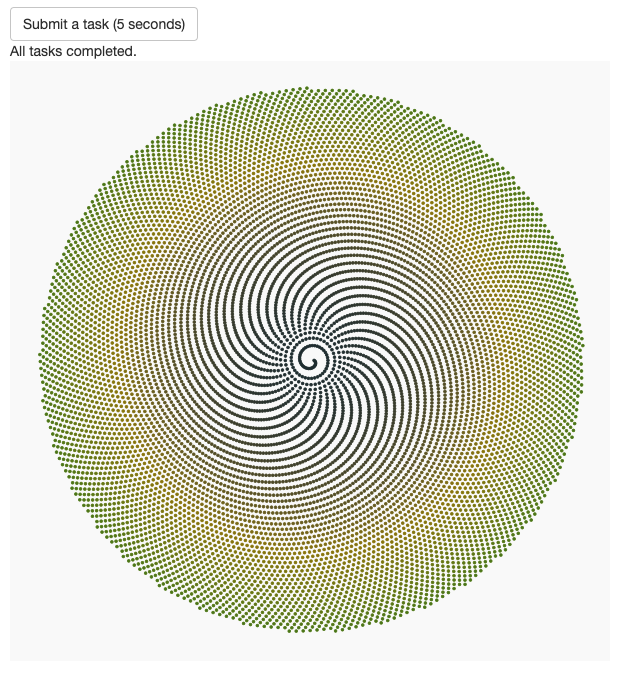
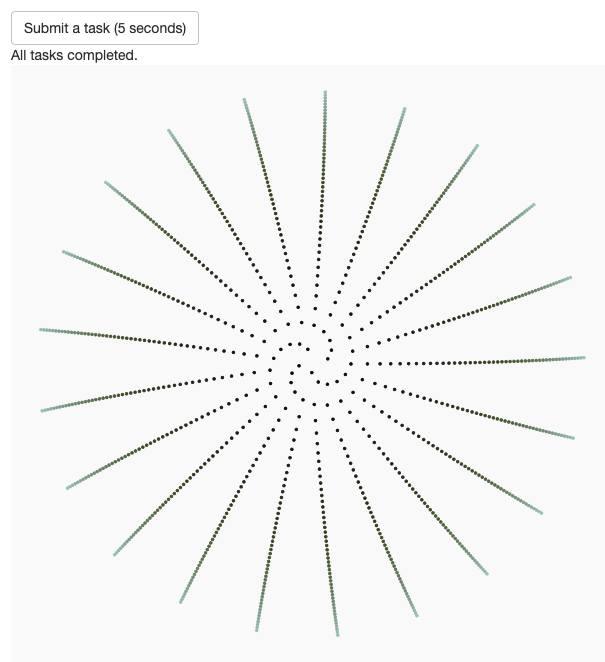
Deploying to gh-pages from @ wlandau/crew@874d0a2cb36dea191214ffd65391d77c998506e9 🚀

diff --git a/articles/shiny.html b/articles/shiny.html
@@ -146,11 +146,11 @@ in progress.</p>
 <p><img src="figures/completed1.png"></p>
 <p>You can submit many more tasks than there are workers currently
 running. In the following screenshot, the app is only running 4 workers,
-but the queue has 12 tasks left.</p>
+but the queue has 9 tasks left.</p>
 <p><img src="figures/progress.png"></p>
 <p>Thanks to the efficient scheduling of <a href="https://github.com/shikokuchuo/mirai" class="external-link"><code>mirai</code></a> in
 the backend, <code>crew</code> workers successfully complete all
-remaining 12 tasks. Because the app runs 4 workers, different plots may
+remaining 9 tasks. Because the app runs 4 workers, different plots may
 appear less than 5 seconds apart.</p>
 <p><img src="figures/completed2.png"></p>
 </div>
@@ -163,30 +163,23 @@ appear less than 5 seconds apart.</p>
 <span><span class="kw"><a href="https://rdrr.io/r/base/library.html" class="external-link">library</a></span><span class="op">(</span><span class="va"><a href="https://shiny.rstudio.com/" class="external-link">shiny</a></span><span class="op">)</span></span>
 <span><span class="kw"><a href="https://rdrr.io/r/base/library.html" class="external-link">library</a></span><span class="op">(</span><span class="va"><a href="https://ggplot2.tidyverse.org" class="external-link">ggplot2</a></span><span class="op">)</span></span>
 <span><span class="kw"><a href="https://rdrr.io/r/base/library.html" class="external-link">library</a></span><span class="op">(</span><span class="va"><a href="https://koenderks.github.io/aRtsy/" class="external-link">aRtsy</a></span><span class="op">)</span></span></code></pre></div>
-<p>Each task waits 5 seconds and then generates a random set of
-parameters of a <a href="https://en.wikipedia.org/wiki/Phyllotaxis" class="external-link">phyllotaxis</a>.</p>
+<p>Each task waits 5 seconds and then generates a random <a href="https://en.wikipedia.org/wiki/Phyllotaxis" class="external-link">phyllotaxis</a> <a href="https://ggplot2.tidyverse.org/" class="external-link"><code>ggplot</code></a> using the
+<a href="https://koenderks.github.io/aRtsy/reference/canvas_phyllotaxis.html" class="external-link"><code>canvas_phyllotaxis()</code></a>
+function from <a href="https://koenderks.github.io/aRtsy/" class="external-link"><code>aRtsy</code></a>.</p>
 <div class="sourceCode" id="cb2"><pre class="downlit sourceCode r">
 <code class="sourceCode R"><span><span class="va">run_task</span> <span class="op">&lt;-</span> <span class="kw">function</span><span class="op">(</span><span class="op">)</span> <span class="op">{</span></span>
 <span>  <span class="fu"><a href="https://rdrr.io/r/base/Sys.sleep.html" class="external-link">Sys.sleep</a></span><span class="op">(</span><span class="fl">5</span><span class="op">)</span></span>
-<span>  <span class="fu"><a href="https://rdrr.io/r/base/list.html" class="external-link">list</a></span><span class="op">(</span></span>
+<span>  <span class="fu">canvas_phyllotaxis</span><span class="op">(</span></span>
 <span>    colors <span class="op">=</span> <span class="fu">colorPalette</span><span class="op">(</span>name <span class="op">=</span> <span class="st">"random"</span>, n <span class="op">=</span> <span class="fl">3</span><span class="op">)</span>,</span>
+<span>    iterations <span class="op">=</span> <span class="fl">1000</span>,</span>
 <span>    angle <span class="op">=</span> <span class="fu"><a href="https://rdrr.io/r/stats/Uniform.html" class="external-link">runif</a></span><span class="op">(</span>n <span class="op">=</span> <span class="fl">1</span>, min <span class="op">=</span> <span class="op">-</span> <span class="fl">2</span> <span class="op">*</span> <span class="va">pi</span>, max <span class="op">=</span> <span class="fl">2</span> <span class="op">*</span> <span class="va">pi</span><span class="op">)</span>,</span>
 <span>    size <span class="op">=</span> <span class="fl">1</span>,</span>
 <span>    p <span class="op">=</span> <span class="fl">1</span></span>
 <span>  <span class="op">)</span></span>
 <span><span class="op">}</span></span></code></pre></div>
-<p>The <a href="https://koenderks.github.io/aRtsy/reference/canvas_phyllotaxis.html" class="external-link"><code>canvas_phyllotaxis()</code></a>
-function from <a href="https://koenderks.github.io/aRtsy/" class="external-link"><code>aRtsy</code></a>
-generates a <a href="https://ggplot2.tidyverse.org/" class="external-link"><code>ggplot</code></a> of the <a href="https://en.wikipedia.org/wiki/Phyllotaxis" class="external-link">phyllotaxis</a>. Below,
-the <code>result</code> argument is a random set of parameters from
-<code>run_task()</code>.</p>
-<div class="sourceCode" id="cb3"><pre class="downlit sourceCode r">
-<code class="sourceCode R"><span><span class="va">plot_result</span> <span class="op">&lt;-</span> <span class="kw">function</span><span class="op">(</span><span class="va">result</span><span class="op">)</span> <span class="op">{</span></span>
-<span>  <span class="fu"><a href="https://rdrr.io/r/base/do.call.html" class="external-link">do.call</a></span><span class="op">(</span>what <span class="op">=</span> <span class="va">canvas_phyllotaxis</span>, args <span class="op">=</span> <span class="va">result</span><span class="op">)</span></span>
-<span><span class="op">}</span></span></code></pre></div>
 <p>A separate function generates status messages based on the number of
 tasks in progress.</p>
-<div class="sourceCode" id="cb4"><pre class="downlit sourceCode r">
+<div class="sourceCode" id="cb3"><pre class="downlit sourceCode r">
 <code class="sourceCode R"><span><span class="va">status_message</span> <span class="op">&lt;-</span> <span class="kw">function</span><span class="op">(</span><span class="va">number_tasks</span><span class="op">)</span> <span class="op">{</span></span>
 <span>  <span class="kw">if</span> <span class="op">(</span><span class="va">number_tasks</span> <span class="op">&gt;</span> <span class="fl">0</span><span class="op">)</span> <span class="op">{</span></span>
 <span>    <span class="fu"><a href="https://rdrr.io/r/base/paste.html" class="external-link">paste</a></span><span class="op">(</span><span class="fu"><a href="https://rdrr.io/r/base/format.html" class="external-link">format</a></span><span class="op">(</span><span class="fu"><a href="https://rdrr.io/r/base/Sys.time.html" class="external-link">Sys.time</a></span><span class="op">(</span><span class="op">)</span><span class="op">)</span>, <span class="st">"tasks in progress:"</span>, <span class="va">number_tasks</span><span class="op">)</span></span>
@@ -198,22 +191,22 @@ tasks in progress.</p>
 interface</a> has a button to submit a task, a text output with the
 status, and a plot with the result of the most recently completed
 task.</p>
-<div class="sourceCode" id="cb5"><pre class="downlit sourceCode r">
+<div class="sourceCode" id="cb4"><pre class="downlit sourceCode r">
 <code class="sourceCode R"><span><span class="va">ui</span> <span class="op">&lt;-</span> <span class="fu">fluidPage</span><span class="op">(</span></span>
 <span>  <span class="fu">actionButton</span><span class="op">(</span><span class="st">"task"</span>, <span class="st">"Submit a task (5 seconds)"</span><span class="op">)</span>,</span>
 <span>  <span class="fu">textOutput</span><span class="op">(</span><span class="st">"status"</span><span class="op">)</span>,</span>
 <span>  <span class="fu">plotOutput</span><span class="op">(</span><span class="st">"figure"</span><span class="op">)</span></span>
 <span><span class="op">)</span></span></code></pre></div>
 <p>The <a href="https://shiny.rstudio.com/articles/basics.html" class="external-link">server</a> begins
-with reactive values and outputs for the random <a href="https://en.wikipedia.org/wiki/Phyllotaxis" class="external-link">phyllotaxis</a>
-parameters and the task status. In addition, <code>reactive_poll</code>
-controls when the app scans for results.</p>
-<div class="sourceCode" id="cb6"><pre class="sourceCode r"><code class="sourceCode r"><span id="cb6-1"><a href="#cb6-1" aria-hidden="true" tabindex="-1"></a>server <span class="ot">&lt;-</span> <span class="cf">function</span>(input, output, session) {</span>
-<span id="cb6-2"><a href="#cb6-2" aria-hidden="true" tabindex="-1"></a>  reactive_result <span class="ot">&lt;-</span> <span class="fu">reactiveVal</span>(<span class="fu">ggplot</span>())</span>
-<span id="cb6-3"><a href="#cb6-3" aria-hidden="true" tabindex="-1"></a>  reactive_status <span class="ot">&lt;-</span> <span class="fu">reactiveVal</span>(<span class="st">"No task submitted yet."</span>)</span>
-<span id="cb6-4"><a href="#cb6-4" aria-hidden="true" tabindex="-1"></a>  reactive_poll <span class="ot">&lt;-</span> <span class="fu">reactiveVal</span>(<span class="cn">FALSE</span>)</span>
-<span id="cb6-5"><a href="#cb6-5" aria-hidden="true" tabindex="-1"></a>  output<span class="sc">$</span>result <span class="ot">&lt;-</span> <span class="fu">renderPlot</span>(<span class="fu">reactive_result</span>(), <span class="at">height =</span> <span class="dv">600</span>, <span class="at">width =</span> <span class="dv">600</span>)</span>
-<span id="cb6-6"><a href="#cb6-6" aria-hidden="true" tabindex="-1"></a>  output<span class="sc">$</span>status <span class="ot">&lt;-</span> <span class="fu">renderText</span>(<span class="fu">reactive_status</span>())</span></code></pre></div>
+with reactive values and outputs for the random <a href="https://en.wikipedia.org/wiki/Phyllotaxis" class="external-link">phyllotaxis</a> plot
+and the task status. In addition, <code>reactive_poll</code> controls
+when the app scans for results.</p>
+<div class="sourceCode" id="cb5"><pre class="sourceCode r"><code class="sourceCode r"><span id="cb5-1"><a href="#cb5-1" aria-hidden="true" tabindex="-1"></a>server <span class="ot">&lt;-</span> <span class="cf">function</span>(input, output, session) {</span>
+<span id="cb5-2"><a href="#cb5-2" aria-hidden="true" tabindex="-1"></a>  reactive_result <span class="ot">&lt;-</span> <span class="fu">reactiveVal</span>(<span class="fu">ggplot</span>())</span>
+<span id="cb5-3"><a href="#cb5-3" aria-hidden="true" tabindex="-1"></a>  reactive_status <span class="ot">&lt;-</span> <span class="fu">reactiveVal</span>(<span class="st">"No task submitted yet."</span>)</span>
+<span id="cb5-4"><a href="#cb5-4" aria-hidden="true" tabindex="-1"></a>  reactive_poll <span class="ot">&lt;-</span> <span class="fu">reactiveVal</span>(<span class="cn">FALSE</span>)</span>
+<span id="cb5-5"><a href="#cb5-5" aria-hidden="true" tabindex="-1"></a>  output<span class="sc">$</span>result <span class="ot">&lt;-</span> <span class="fu">renderPlot</span>(<span class="fu">reactive_result</span>(), <span class="at">height =</span> <span class="dv">600</span>, <span class="at">width =</span> <span class="dv">600</span>)</span>
+<span id="cb5-6"><a href="#cb5-6" aria-hidden="true" tabindex="-1"></a>  output<span class="sc">$</span>status <span class="ot">&lt;-</span> <span class="fu">renderText</span>(<span class="fu">reactive_status</span>())</span></code></pre></div>
 <p>Next, we start a <code>crew</code> controller with up to 4 workers
 and an idle time of 10 seconds. We choose the <a href="https://wlandau.github.io/crew/reference/crew_class_launcher_local.html" class="external-link">local
 process launcher</a> below for this app, but we could have chosen the <a href="https://en.wikipedia.org/wiki/Oracle_Grid_Engine" class="external-link">Sun Grid
@@ -223,7 +216,7 @@ group</a> with multiple launchers, or a <a href="https://wlandau.github.io/crew/
 launcher</a> for e.g. <a href="https://kubernetes.io" class="external-link">Kubernetes</a>.
 With <code>crew</code>, anyone can write a <a href="https://wlandau.github.io/crew/articles/launcher_plugins.html" class="external-link">custom
 launcher plugin</a>.</p>
-<div class="sourceCode" id="cb7"><pre class="downlit sourceCode r">
+<div class="sourceCode" id="cb6"><pre class="downlit sourceCode r">
 <code class="sourceCode R"><span>  <span class="va">controller</span> <span class="op">&lt;-</span> <span class="fu"><a href="../reference/crew_controller_local.html">crew_controller_local</a></span><span class="op">(</span>workers <span class="op">=</span> <span class="fl">4</span>, seconds_idle <span class="op">=</span> <span class="fl">10</span><span class="op">)</span></span>
 <span>  <span class="va">controller</span><span class="op">$</span><span class="fu">start</span><span class="op">(</span><span class="op">)</span></span>
 <span>  <span class="fu">onStop</span><span class="op">(</span><span class="kw">function</span><span class="op">(</span><span class="op">)</span> <span class="va">controller</span><span class="op">$</span><span class="fu">terminate</span><span class="op">(</span><span class="op">)</span><span class="op">)</span></span></code></pre></div>
@@ -232,7 +225,7 @@ the app pushes a new task to the <code>crew</code> controller, and the
 task will start when a worker is available. We set
 <code>reactive_poll()</code> to <code>TRUE</code> to tell the app to
 scan for results in the <code>observe()</code> block covered next.</p>
-<div class="sourceCode" id="cb8"><pre class="downlit sourceCode r">
+<div class="sourceCode" id="cb7"><pre class="downlit sourceCode r">
 <code class="sourceCode R"><span>  <span class="fu">observeEvent</span><span class="op">(</span><span class="va">input</span><span class="op">$</span><span class="va">task</span>, <span class="op">{</span></span>
 <span>    <span class="va">controller</span><span class="op">$</span><span class="fu">push</span><span class="op">(</span></span>
 <span>      command <span class="op">=</span> <span class="fu">run_task</span><span class="op">(</span><span class="op">)</span>,</span>
@@ -247,28 +240,28 @@ event loop that scans for results. The leading
 results could come in, and the
 <code>reactive_poll(!controller$empty())</code> at the end turns off
 polling when everything is all done.
-<code>invalidateLater(millis = 250)</code> says to poll every 0.25
+<code>invalidateLater(millis = 100)</code> says to poll every 0.1
 seconds when polling is activated.<a href="#fn2" class="footnote-ref" id="fnref2"><sup>2</sup></a> The other three lines collect a result,
 plot it if available, and update the status message.</p>
-<div class="sourceCode" id="cb9"><pre class="sourceCode r"><code class="sourceCode r"><span id="cb9-1"><a href="#cb9-1" aria-hidden="true" tabindex="-1"></a>  <span class="fu">observe</span>({</span>
-<span id="cb9-2"><a href="#cb9-2" aria-hidden="true" tabindex="-1"></a>    <span class="fu">req</span>(<span class="fu">reactive_poll</span>())</span>
-<span id="cb9-3"><a href="#cb9-3" aria-hidden="true" tabindex="-1"></a>    <span class="fu">invalidateLater</span>(<span class="at">millis =</span> <span class="dv">250</span>)</span>
-<span id="cb9-4"><a href="#cb9-4" aria-hidden="true" tabindex="-1"></a>    result <span class="ot">&lt;-</span> controller<span class="sc">$</span><span class="fu">pop</span>()<span class="sc">$</span>result</span>
-<span id="cb9-5"><a href="#cb9-5" aria-hidden="true" tabindex="-1"></a>    <span class="cf">if</span> (<span class="sc">!</span><span class="fu">is.null</span>(result)) <span class="fu">reactive_result</span>(<span class="fu">plot_result</span>(result[[1L]]))</span>
-<span id="cb9-6"><a href="#cb9-6" aria-hidden="true" tabindex="-1"></a>    <span class="fu">reactive_status</span>(<span class="fu">status_message</span>(<span class="at">number_tasks =</span> <span class="fu">length</span>(controller<span class="sc">$</span>queue)))</span>
-<span id="cb9-7"><a href="#cb9-7" aria-hidden="true" tabindex="-1"></a>    <span class="fu">reactive_poll</span>(<span class="sc">!</span>controller<span class="sc">$</span><span class="fu">empty</span>())</span>
-<span id="cb9-8"><a href="#cb9-8" aria-hidden="true" tabindex="-1"></a>  })</span>
-<span id="cb9-9"><a href="#cb9-9" aria-hidden="true" tabindex="-1"></a><span class="er">}</span></span></code></pre></div>
+<div class="sourceCode" id="cb8"><pre class="sourceCode r"><code class="sourceCode r"><span id="cb8-1"><a href="#cb8-1" aria-hidden="true" tabindex="-1"></a>  <span class="fu">observe</span>({</span>
+<span id="cb8-2"><a href="#cb8-2" aria-hidden="true" tabindex="-1"></a>    <span class="fu">req</span>(<span class="fu">reactive_poll</span>())</span>
+<span id="cb8-3"><a href="#cb8-3" aria-hidden="true" tabindex="-1"></a>    <span class="fu">invalidateLater</span>(<span class="at">millis =</span> <span class="dv">100</span>)</span>
+<span id="cb8-4"><a href="#cb8-4" aria-hidden="true" tabindex="-1"></a>    result <span class="ot">&lt;-</span> controller<span class="sc">$</span><span class="fu">pop</span>()<span class="sc">$</span>result</span>
+<span id="cb8-5"><a href="#cb8-5" aria-hidden="true" tabindex="-1"></a>    <span class="cf">if</span> (<span class="sc">!</span><span class="fu">is.null</span>(result)) <span class="fu">reactive_result</span>(result[[<span class="dv">1</span>]])</span>
+<span id="cb8-6"><a href="#cb8-6" aria-hidden="true" tabindex="-1"></a>    <span class="fu">reactive_status</span>(<span class="fu">status_message</span>(<span class="at">number_tasks =</span> <span class="fu">length</span>(controller<span class="sc">$</span>queue)))</span>
+<span id="cb8-7"><a href="#cb8-7" aria-hidden="true" tabindex="-1"></a>    <span class="fu">reactive_poll</span>(<span class="sc">!</span>controller<span class="sc">$</span><span class="fu">empty</span>())</span>
+<span id="cb8-8"><a href="#cb8-8" aria-hidden="true" tabindex="-1"></a>  })</span>
+<span id="cb8-9"><a href="#cb8-9" aria-hidden="true" tabindex="-1"></a><span class="er">}</span></span></code></pre></div>
 <p>Finally, <code>shinyApp()</code> runs the app with the UI and server
 defined above.</p>
-<div class="sourceCode" id="cb10"><pre class="downlit sourceCode r">
+<div class="sourceCode" id="cb9"><pre class="downlit sourceCode r">
 <code class="sourceCode R"><span><span class="fu">shinyApp</span><span class="op">(</span>ui <span class="op">=</span> <span class="va">ui</span>, server <span class="op">=</span> <span class="va">server</span><span class="op">)</span></span></code></pre></div>
 </div>
 <div class="section level2">
 <h2 id="code">Code<a class="anchor" aria-label="anchor" href="#code"></a>
 </h2>
 <p>See below for the complete <code>app.R</code> file.</p>
-<div class="sourceCode" id="cb11"><pre class="downlit sourceCode r">
+<div class="sourceCode" id="cb10"><pre class="downlit sourceCode r">
 <code class="sourceCode R"><span><span class="kw"><a href="https://rdrr.io/r/base/library.html" class="external-link">library</a></span><span class="op">(</span><span class="va"><a href="https://wlandau.github.io/crew/" class="external-link">crew</a></span><span class="op">)</span></span>
 <span><span class="kw"><a href="https://rdrr.io/r/base/library.html" class="external-link">library</a></span><span class="op">(</span><span class="va"><a href="https://shiny.rstudio.com/" class="external-link">shiny</a></span><span class="op">)</span></span>
 <span><span class="kw"><a href="https://rdrr.io/r/base/library.html" class="external-link">library</a></span><span class="op">(</span><span class="va"><a href="https://ggplot2.tidyverse.org" class="external-link">ggplot2</a></span><span class="op">)</span></span>
@@ -276,16 +269,13 @@ defined above.</p>
 <span></span>
 <span><span class="va">run_task</span> <span class="op">&lt;-</span> <span class="kw">function</span><span class="op">(</span><span class="op">)</span> <span class="op">{</span></span>
 <span>  <span class="fu"><a href="https://rdrr.io/r/base/Sys.sleep.html" class="external-link">Sys.sleep</a></span><span class="op">(</span><span class="fl">5</span><span class="op">)</span></span>
-<span>  <span class="fu"><a href="https://rdrr.io/r/base/list.html" class="external-link">list</a></span><span class="op">(</span></span>
+<span>  <span class="fu">canvas_phyllotaxis</span><span class="op">(</span></span>
 <span>    colors <span class="op">=</span> <span class="fu">colorPalette</span><span class="op">(</span>name <span class="op">=</span> <span class="st">"random"</span>, n <span class="op">=</span> <span class="fl">3</span><span class="op">)</span>,</span>
+<span>    iterations <span class="op">=</span> <span class="fl">1000</span>,</span>
 <span>    angle <span class="op">=</span> <span class="fu"><a href="https://rdrr.io/r/stats/Uniform.html" class="external-link">runif</a></span><span class="op">(</span>n <span class="op">=</span> <span class="fl">1</span>, min <span class="op">=</span> <span class="op">-</span> <span class="fl">2</span> <span class="op">*</span> <span class="va">pi</span>, max <span class="op">=</span> <span class="fl">2</span> <span class="op">*</span> <span class="va">pi</span><span class="op">)</span>,</span>
 <span>    size <span class="op">=</span> <span class="fl">1</span>,</span>
 <span>    p <span class="op">=</span> <span class="fl">1</span></span>
 <span>  <span class="op">)</span></span>
-<span><span class="op">}</span></span>
-<span></span>
-<span><span class="va">plot_result</span> <span class="op">&lt;-</span> <span class="kw">function</span><span class="op">(</span><span class="va">result</span><span class="op">)</span> <span class="op">{</span></span>
-<span>  <span class="fu"><a href="https://rdrr.io/r/base/do.call.html" class="external-link">do.call</a></span><span class="op">(</span>what <span class="op">=</span> <span class="va">canvas_phyllotaxis</span>, args <span class="op">=</span> <span class="va">result</span><span class="op">)</span></span>
 <span><span class="op">}</span></span>
 <span></span>
 <span><span class="va">status_message</span> <span class="op">&lt;-</span> <span class="kw">function</span><span class="op">(</span><span class="va">number_tasks</span><span class="op">)</span> <span class="op">{</span></span>
@@ -328,9 +318,9 @@ defined above.</p>
 <span>  <span class="co"># event loop to collect finished tasks</span></span>
 <span>  <span class="fu">observe</span><span class="op">(</span><span class="op">{</span></span>
 <span>    <span class="fu">req</span><span class="op">(</span><span class="fu">reactive_poll</span><span class="op">(</span><span class="op">)</span><span class="op">)</span></span>
-<span>    <span class="fu">invalidateLater</span><span class="op">(</span>millis <span class="op">=</span> <span class="fl">250</span><span class="op">)</span></span>
+<span>    <span class="fu">invalidateLater</span><span class="op">(</span>millis <span class="op">=</span> <span class="fl">100</span><span class="op">)</span></span>
 <span>    <span class="va">result</span> <span class="op">&lt;-</span> <span class="va">controller</span><span class="op">$</span><span class="fu">pop</span><span class="op">(</span><span class="op">)</span><span class="op">$</span><span class="va">result</span></span>
-<span>    <span class="kw">if</span> <span class="op">(</span><span class="op">!</span><span class="fu"><a href="https://rdrr.io/r/base/NULL.html" class="external-link">is.null</a></span><span class="op">(</span><span class="va">result</span><span class="op">)</span><span class="op">)</span> <span class="fu">reactive_result</span><span class="op">(</span><span class="fu">plot_result</span><span class="op">(</span><span class="va">result</span><span class="op">[[</span><span class="fl">1L</span><span class="op">]</span><span class="op">]</span><span class="op">)</span><span class="op">)</span></span>
+<span>    <span class="kw">if</span> <span class="op">(</span><span class="op">!</span><span class="fu"><a href="https://rdrr.io/r/base/NULL.html" class="external-link">is.null</a></span><span class="op">(</span><span class="va">result</span><span class="op">)</span><span class="op">)</span> <span class="fu">reactive_result</span><span class="op">(</span><span class="va">result</span><span class="op">[[</span><span class="fl">1</span><span class="op">]</span><span class="op">]</span><span class="op">)</span></span>
 <span>    <span class="fu">reactive_status</span><span class="op">(</span><span class="fu">status_message</span><span class="op">(</span>number_tasks <span class="op">=</span> <span class="fu"><a href="https://rdrr.io/r/base/length.html" class="external-link">length</a></span><span class="op">(</span><span class="va">controller</span><span class="op">$</span><span class="va">queue</span><span class="op">)</span><span class="op">)</span><span class="op">)</span></span>
 <span>    <span class="fu">reactive_poll</span><span class="op">(</span><span class="op">!</span><span class="va">controller</span><span class="op">$</span><span class="fu">empty</span><span class="op">(</span><span class="op">)</span><span class="op">)</span></span>
 <span>  <span class="op">}</span><span class="op">)</span></span>
@@ -346,7 +336,7 @@ of serious examples of long-running tasks.<a href="#fnref1" class="footnote-back
 <li id="fn2"><p><code>controller$pop()</code> is inexpensive, especially
 when there are no workers to relaunch or results to collect. In
 practice, the polling interval is a balance between responsiveness and
-CPU usage, and it may not be 0.25 seconds for every app.<a href="#fnref2" class="footnote-back">↩</a></p></li>
+CPU usage, and it may not be 0.1 seconds for every app.<a href="#fnref2" class="footnote-back">↩</a></p></li>
 </ol>
 </div>
   </div>

diff --git a/reference/crew_eval.html b/reference/crew_eval.html
@@ -141,7 +141,7 @@ are restored to their original values on exit.</p>
 <span class="r-out co"><span class="r-pr">#&gt;</span>   command: 1 + 1</span>
 <span class="r-out co"><span class="r-pr">#&gt;</span>   result: list(2)</span>
 <span class="r-out co"><span class="r-pr">#&gt;</span>   seconds: 0</span>
-<span class="r-out co"><span class="r-pr">#&gt;</span>   seed: 474381720</span>
+<span class="r-out co"><span class="r-pr">#&gt;</span>   seed: 801841455</span>
 <span class="r-out co"><span class="r-pr">#&gt;</span>   error: NA</span>
 <span class="r-out co"><span class="r-pr">#&gt;</span>   trace: NA</span>
 <span class="r-out co"><span class="r-pr">#&gt;</span>   warnings: NA</span>

diff --git a/reference/crew_random_name.html b/reference/crew_random_name.html
@@ -97,7 +97,7 @@ e.g. <code><a href="https://rdrr.io/r/base/Random.html" class="external-link">se
     <div id="ref-examples">
     <h2>Examples</h2>
     <div class="sourceCode"><pre class="sourceCode r"><code><span class="r-in"><span><span class="fu">crew_random_name</span><span class="op">(</span><span class="op">)</span></span></span>
-<span class="r-out co"><span class="r-pr">#&gt;</span> [1] "5424f65b1d0262501e14f85077e14bbf70b5656a"</span>
+<span class="r-out co"><span class="r-pr">#&gt;</span> [1] "4f85acc2f7cf7a48146eac8918c62231d2ebdd88"</span>
 </code></pre></div>
     </div>
   </div>
